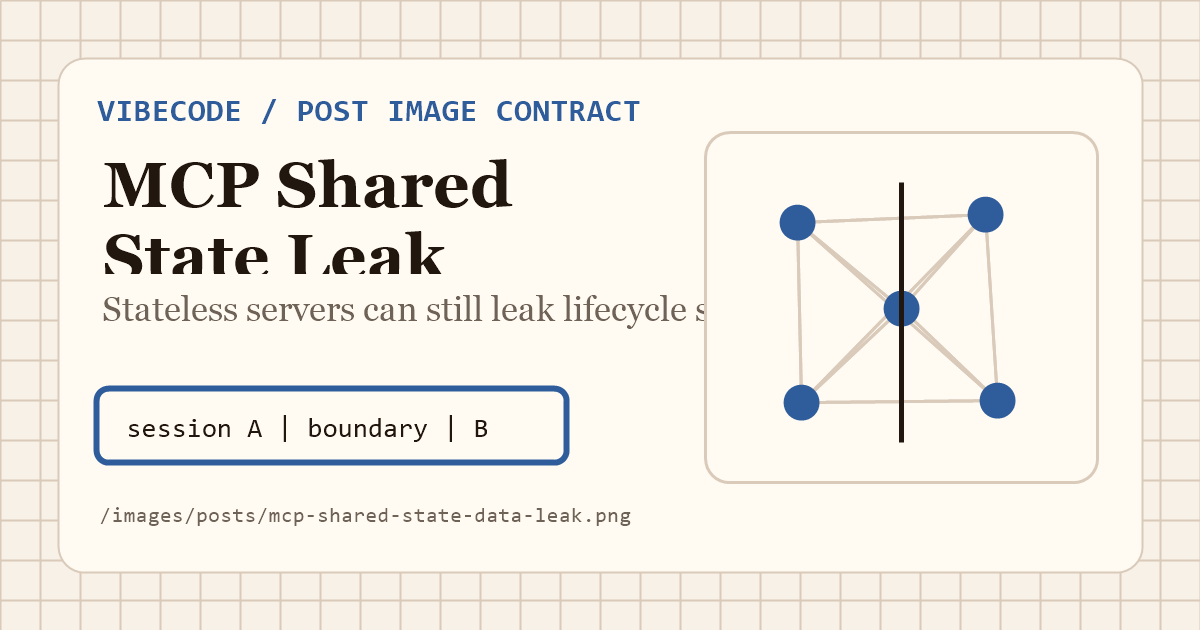
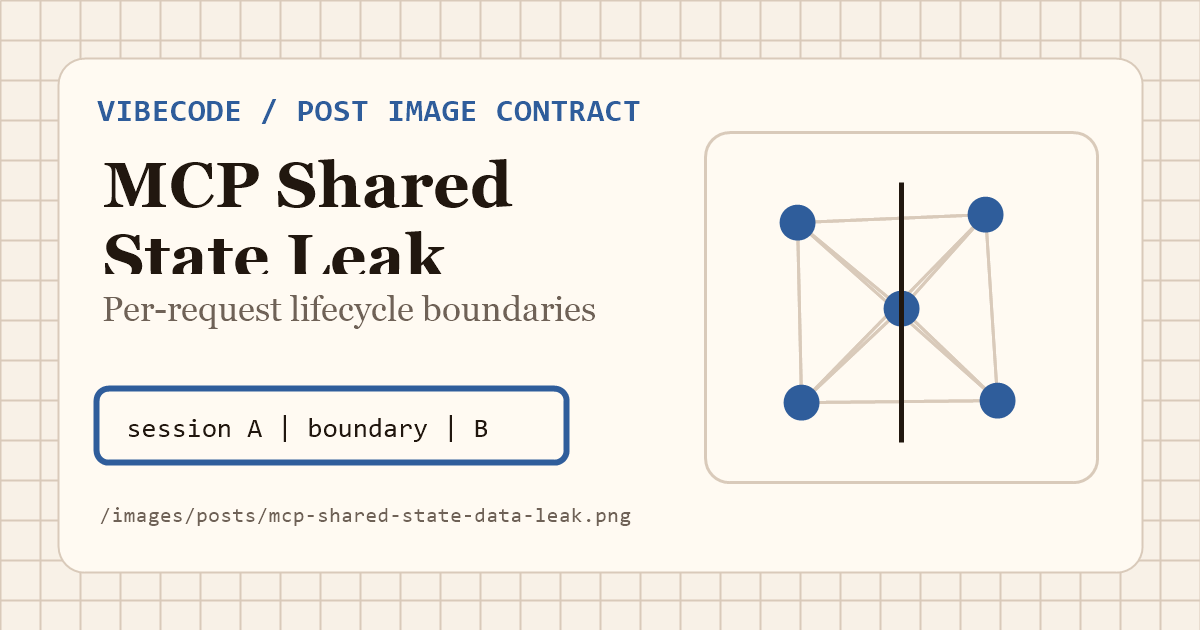
Harden public page review gate

Changed region(s): [[0.0617, 0.4524, 0.5858, 0.5127]]

diff --git a/src/styles/global.css b/src/styles/global.css
@@ -5,17 +5,17 @@
 
 /* ─── Editorial Design Tokens ──────────────────────────────────── */
 
-/* MUSU Brand: Cocoa Brown + Yellow + Off-White */
+/* Editorial palette: cocoa brown, amber, and off-white */
 :root,
 html[data-theme="light"] {
   --background: #FDFCF0;
   --bg-secondary: #F4E5C2;
   --bg-tertiary: #EDEBE0;
   --bg-elevated: #FFFFFF;
-  --foreground: #432c1c; /* 지정된 깊은 브라운 */
+  --foreground: #432c1c; /* deep cocoa ink */
   --text-secondary: rgba(67, 44, 28, 0.75);
   --text-muted: rgba(67, 44, 28, 0.5);
-  --accent: #ffa602;      /* 지정된 엠버 오렌지 */
+  --accent: #ffa602;      /* amber accent */
   --accent-dim: #e69500;
   --border: rgba(67, 44, 28, 0.12);
   --border-strong: rgba(67, 44, 28, 0.25);
@@ -28,7 +28,7 @@ html[data-theme="dark"] {
   --foreground: #FDFCF0;
   --text-secondary: rgba(253, 252, 240, 0.8);
   --text-muted: rgba(253, 252, 240, 0.5);
-  --accent: #ffa602;      /* 다크모드에서도 오렌지 액센트 유지 */
+  --accent: #ffa602;      /* keep amber accent in dark mode */
   --accent-dim: #d48b00;
   --border: rgba(253, 252, 240, 0.15);
   --border-strong: rgba(253, 252, 240, 0.3);

diff --git a/src/data/blog/design-is-a-technical-contract.md b/src/data/blog/design-is-a-technical-contract.md
@@ -22,7 +22,7 @@ references:
 
 # DESIGN.md Turns Visual Taste Into an Agent Contract
 
-The normal design handoff fails agents for the same reason vague prompts fail them: too much context lives in someone's head.
+The problem with the normal design handoff is that it fails agents for the same reason vague prompts fail them: too much context lives in someone's head.
 
 A screenshot says what a screen looked like. It does not reliably say why the primary color exists, which type scale owns body copy, what a button hover variant is allowed to change, or which contrast rule should block a bad component.
 

diff --git a/src/data/blog/frustration-as-spec.md b/src/data/blog/frustration-as-spec.md
@@ -20,7 +20,7 @@ references:
 
 ![Frustration into specification signal diagram](/images/posts/frustration-as-spec.png)
 
-The useful moment is not when the agent makes a mistake. The useful moment is when you correct the same mistake twice.
+The problem is not that the agent makes a mistake. The useful moment is when you correct the same mistake twice.
 
 That is the point where frustration stops being a mood and starts being telemetry. Something in the system is under-specified. The agent is not seeing a boundary that the operator assumed was obvious.
 

diff --git a/src/data/blog/000-about.md b/src/data/blog/000-about.md
@@ -16,7 +16,7 @@ The site tracks what changes when agents write code, operate tools, produce evid
 
 ![Vibe Coding Project operating log diagram](/images/posts/000-about.png)
 
-## The Publishing Contract
+## Publishing Contract
 
 1. **Show the failure.** Start from the bug, handoff gap, bad deploy, weak article, or unsafe assumption.
 2. **Name the contract.** Turn the lesson into a boundary another agent can follow.
